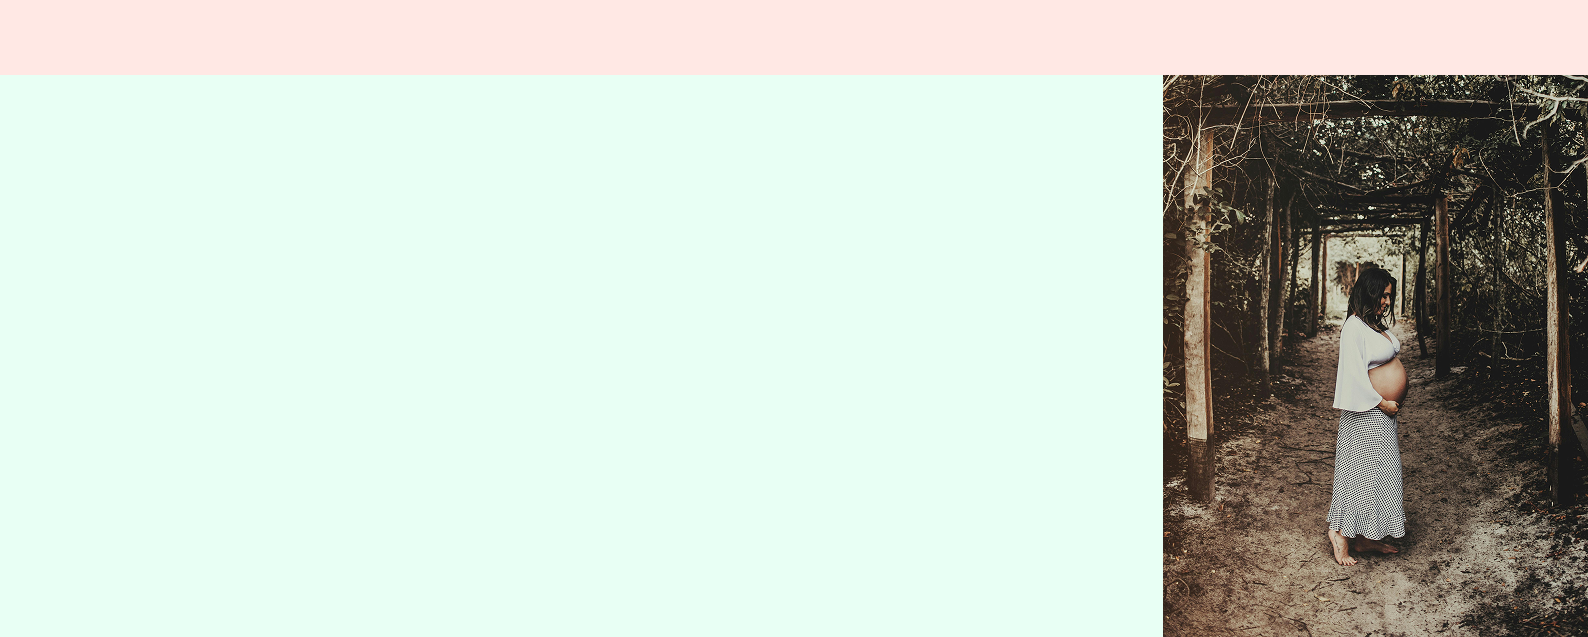
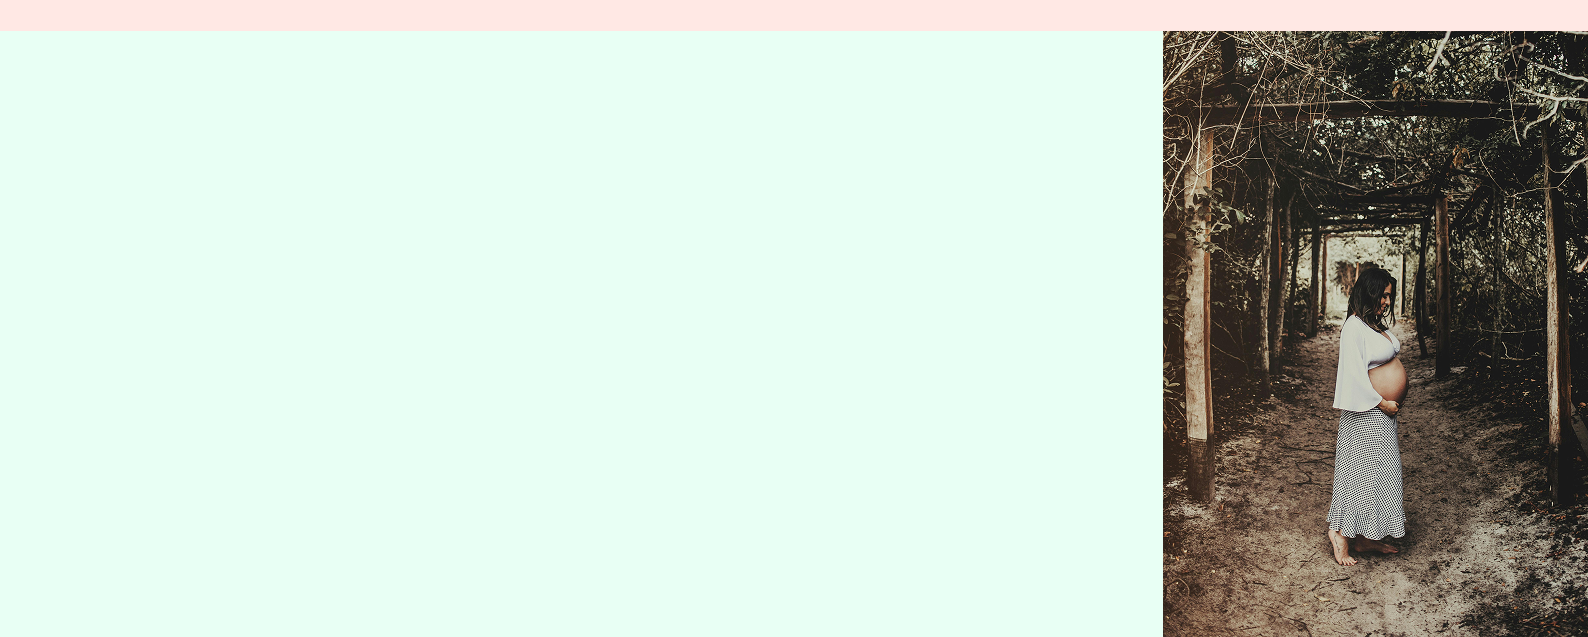
mobil version fixed

Changed region(s): [[0.7097, 0.0298, 1.0, 0.1193]]

diff --git a/doula2/styles.css b/doula2/styles.css
@@ -651,7 +651,139 @@ html.js .reveal.is-visible{ opacity:1; transform:translateY(0); }
 
 /* phones: center it again if you want */
 @media (max-width: 900px){
-  .hero-copy{ justify-self:center; text-align:center; }
+  .hero-copy{ justify-self:center; text-align:center; background:var(--brand-10)}
 }
 
 
+/* hide toggle by default (desktop) */
+.nav-toggle{ display:none; }
+
+/* screen-reader utility */
+.sr-only{
+  position:absolute;width:1px;height:1px;padding:0;margin:-1px;overflow:hidden;
+  clip:rect(0,0,0,0);white-space:nowrap;border:0;
+}
+
+/* ====== MOBILE ONLY (≤900px) ====== */
+@media (max-width: 900px){
+
+  /* header spacing stays tidy */
+  .site-header .nav{ gap:.75rem; padding:.6rem 0; }
+
+  /* show hamburger on mobile */
+  .nav-toggle{
+    display:inline-flex; align-items:center; justify-content:center;
+    border:0; background:transparent; padding:.4rem; line-height:0;
+    color:#111; border-radius:.6rem;
+  }
+  .nav-toggle:focus-visible{ outline:2px solid currentColor; }
+
+  /* off-canvas drawer for the existing nav */
+  #site-menu{
+    position: fixed;
+    top: 0; right: 0; bottom: 0;
+    width: min(80vw, 320px);
+    transform: translateX(100%);
+    transition: transform .25s ease;
+    background: linear-gradient(180deg,#fff,#f7f7f7);
+    box-shadow: -8px 0 24px rgba(0,0,0,.15);
+    padding: max(12px, env(safe-area-inset-top)) 16px max(16px, env(safe-area-inset-bottom));
+    z-index: 9998;
+  }
+  #site-menu.is-open{ transform: translateX(0); }
+  body.nav-open{ overflow:hidden; }
+
+  /* vertical menu items */
+  .site-header .menu{
+    display:flex; flex-direction:column; gap:.6rem; padding:0; margin:0;
+  }
+  .site-header .menu li{
+    list-style:none; border-radius:.9rem; overflow:hidden;
+    border:1px solid rgba(0,0,0,.08); background:#fff;
+    box-shadow:0 2px 8px rgba(0,0,0,.06);
+  }
+  .site-header .menu li > a{
+    display:block; padding:.95rem 1rem; color:#111; text-decoration:none;
+  }
+
+  /* logo smaller only on phones (desktop untouched) */
+  .brand__logo{ height:44px; width:auto; transform:none; }
+
+  /* hero & actions: friendlier on phones */
+  .parallax--hero .hero-grid{ grid-template-columns:1fr; }
+  .hero-copy{ background:rgba(241, 225, 228, 0.669); justify-self:center; text-align:center; padding-inline:12px; }
+  .hero-copy .actions{ margin-inline-start:0 !important; justify-content:center; }
+
+@media (max-width: 900px){
+  .hero-copy{
+    border-radius: 18px;
+    padding: 12px 16px;
+    overflow: hidden;
+  }
+}
+
+  /* content grids collapse */
+  .split{ grid-template-columns:1fr; }
+  .grid-3{ grid-template-columns:1fr; }
+
+  /* soften parallax on small screens only */
+  .parallax{ min-height:60vh; }
+  .parallax::before{ transform:none !important; }
+
+  /* inputs at 16px to avoid iOS zoom */
+  .contact input, .contact textarea, .contact select{ font-size:16px; }
+}
+
+
+/* Burger hidden by default (desktop) */
+.nav-toggle{ display: none !important; }
+
+/* Mobile only (≤900px): show burger + off-canvas drawer */
+@media (max-width: 900px){
+  .nav-toggle{
+    display:inline-flex !important;
+    align-items:center; justify-content:center;
+    border:0; background:transparent; padding:.4rem; line-height:0; color:#111;
+  }
+
+  /* off-canvas for your existing nav */
+  #site-menu{
+    position: fixed; top:0; right:0; bottom:0;
+    width: min(80vw, 320px);
+    transform: translateX(100%);
+    transition: transform .25s ease;
+    background: linear-gradient(180deg,#fff,#f7f7f7);
+    box-shadow: -8px 0 24px rgba(0,0,0,.15);
+    padding: max(12px, env(safe-area-inset-top)) 16px max(16px, env(safe-area-inset-bottom));
+    z-index: 9998;
+  }
+  #site-menu.is-open{ transform: translateX(0); }
+  body.nav-open{ overflow:hidden; }
+
+  /* vertical list inside the drawer */
+  .site-header .menu{
+    display:flex; flex-direction:column; gap:.6rem; padding:0; margin:0;
+  }
+  .site-header .menu li{
+    list-style:none; border-radius:.9rem; overflow:hidden;
+    border:1px solid rgba(0,0,0,.08); background:#fff;
+    box-shadow:0 2px 8px rgba(0,0,0,.06);
+  }
+  .site-header .menu li > a{
+    display:block; padding:.95rem 1rem; color:#111; text-decoration:none;
+  }
+
+  /* tidy mobile logo only (desktop untouched) */
+  .brand__logo{ height:44px !important; width:auto; transform:none !important; }
+}
+
+
+/* ===== Mobile-only swap for parallax--half background (≤900px) ===== */
+@media (max-width: 900px){
+  /* If a section defines --bg-mobile, use it; else fall back to --bg */
+  .parallax--hero::before{
+    background-image: var(--bg-mobile, var(--bg)) !important;
+    /* optional crop for mobile; tweak or remove the next line */
+    background-position: center;
+  }
+}

diff --git a/doula2/main.js b/doula2/main.js
@@ -36,9 +36,19 @@ document.querySelectorAll('#year').forEach(el => el.textContent = new Date().get
   const hero = document.querySelector('.parallax.parallax--hero');
   if (!hero) return;
 
-  const raw = getComputedStyle(hero).getPropertyValue('--bg').trim();
-  const match = raw.match(/url\((?:'|")?(.*?)(?:'|")?\)/i);
+    // Prefer mobile var on small screens
+  const mqlMobile = window.matchMedia('(max-width: 900px)');
+  const preferVar = mqlMobile.matches ? '--bg-mobile' : '--bg';
+
+  // Try preferred var, fall back to --bg
+  let raw = getComputedStyle(hero).getPropertyValue(preferVar).trim();
+  if (!raw || raw === 'none') {
+    raw = getComputedStyle(hero).getPropertyValue('--bg').trim();
+  }
+
+  const match = raw && raw.match(/url\((?:'|")?(.*?)(?:'|")?\)/i);
   const src = match && match[1];
+
   if (!src) { hero.classList.add('is-ready'); return; }
 
   const img = new Image();
@@ -127,4 +137,50 @@ document.querySelectorAll('#year').forEach(el => el.textContent = new Date().get
   img.addEventListener('error', () => {
     console.error('Logo failed to load. Check path/filename case and that the file exists.');
   });
+})();
+
+
+// MOBILE NAV (≤900px only)
+(() => {
+  const toggle = document.querySelector('.nav-toggle');
+  const menu   = document.getElementById('site-menu');
+  if (!toggle || !menu) return;
+
+  const mql = window.matchMedia('(max-width: 900px)');
+
+  const open  = () => {
+    toggle.setAttribute('aria-expanded','true');
+    menu.classList.add('is-open');
+    document.body.classList.add('nav-open');
+  };
+  const close = () => {
+    toggle.setAttribute('aria-expanded','false');
+    menu.classList.remove('is-open');
+    document.body.classList.remove('nav-open');
+  };
+
+  // only toggle when in mobile range
+  toggle.addEventListener('click', (e) => {
+    if (!mql.matches) return; // ignore on desktop
+    e.preventDefault();
+    const isOpen = menu.classList.contains('is-open');
+    isOpen ? close() : open();
+  });
+
+  // close on link click (mobile only)
+  menu.addEventListener('click', (e) => {
+    if (!mql.matches) return;
+    if (e.target.closest('a')) close();
+  });
+
+  // close on ESC (mobile only)
+  window.addEventListener('keydown', (e) => {
+    if (!mql.matches) return;
+    if (e.key === 'Escape') close();
+  }, { passive: true });
+
+  // if user resizes to desktop, ensure everything is reset
+  const handleChange = () => { if (!mql.matches) close(); };
+  mql.addEventListener ? mql.addEventListener('change', handleChange)
+                       : mql.addListener(handleChange);
 })();

diff --git a/doula2/testimonials-faq.html b/doula2/testimonials-faq.html
@@ -17,7 +17,16 @@
            decoding="async"
            fetchpriority="high" />
     </a>
-      <nav>
+
+    <!-- mobile burger (hidden on desktop, shown ≤900px) -->
+<button class="nav-toggle" aria-controls="site-menu" aria-expanded="false">
+  <span class="sr-only">Toggle menu</span>
+  <svg width="26" height="26" viewBox="0 0 24 24" aria-hidden="true">
+    <path d="M3 6h18M3 12h18M3 18h18" stroke="currentColor" stroke-width="2" stroke-linecap="round"/>
+  </svg>
+</button>
+
+      <nav id="site-menu">
         <ul class="menu" >
           <li><a href="index.html#home" style="color:black">Home</a></li>
           <li><a href="index.html#about" style="color:black">About Me</a></li>
@@ -30,7 +39,7 @@
 
   <main>
   <!-- Parallax #1 (title strip) -->
-  <section class="parallax parallax--half" data-parallax data-speed="0.28" style="--bg:url('images/im11.jpg')">
+  <section class="parallax parallax--half" data-parallax data-speed="0.28" style="--bg:url('images/im11.jpg');">
     <div class="parallax__content">
       <h1>What families say</h1>
       <p class="lead xl">Real words from real births and early weeks at home.</p>

diff --git a/doula2/index.html b/doula2/index.html
@@ -26,8 +26,16 @@
            fetchpriority="high" />
     </a>
 
+<!-- mobile burger (hidden on desktop, shown ≤900px) -->
+<button class="nav-toggle" aria-controls="site-menu" aria-expanded="false">
+  <span class="sr-only">Toggle menu</span>
+  <svg width="26" height="26" viewBox="0 0 24 24" aria-hidden="true">
+    <path d="M3 6h18M3 12h18M3 18h18" stroke="currentColor" stroke-width="2" stroke-linecap="round"/>
+  </svg>
+</button>
 
-  <nav>
+
+  <nav id="site-menu">
     <ul class="menu">
       <li><a href="#home" style="color:rgb(0, 0, 0)">Home</a></li>
       <li><a href="#about" style="color:rgb(0, 0, 0)">About Me</a></li>
@@ -42,7 +50,9 @@
 
   <main id="home">
     <!-- HERO - parallax background -->
-    <section class="parallax parallax--hero" data-parallax data-speed="0.85" style="--bg: url('images/im9.png');">
+    <section class="parallax parallax--hero" data-parallax data-speed="0.28"
+         style="--bg:url('images/im9.png'); --bg-mobile:url('images/im7.jpg')">
+
       <div class="container hero-grid parallax__content">
         
   <div class="hero-copy">
